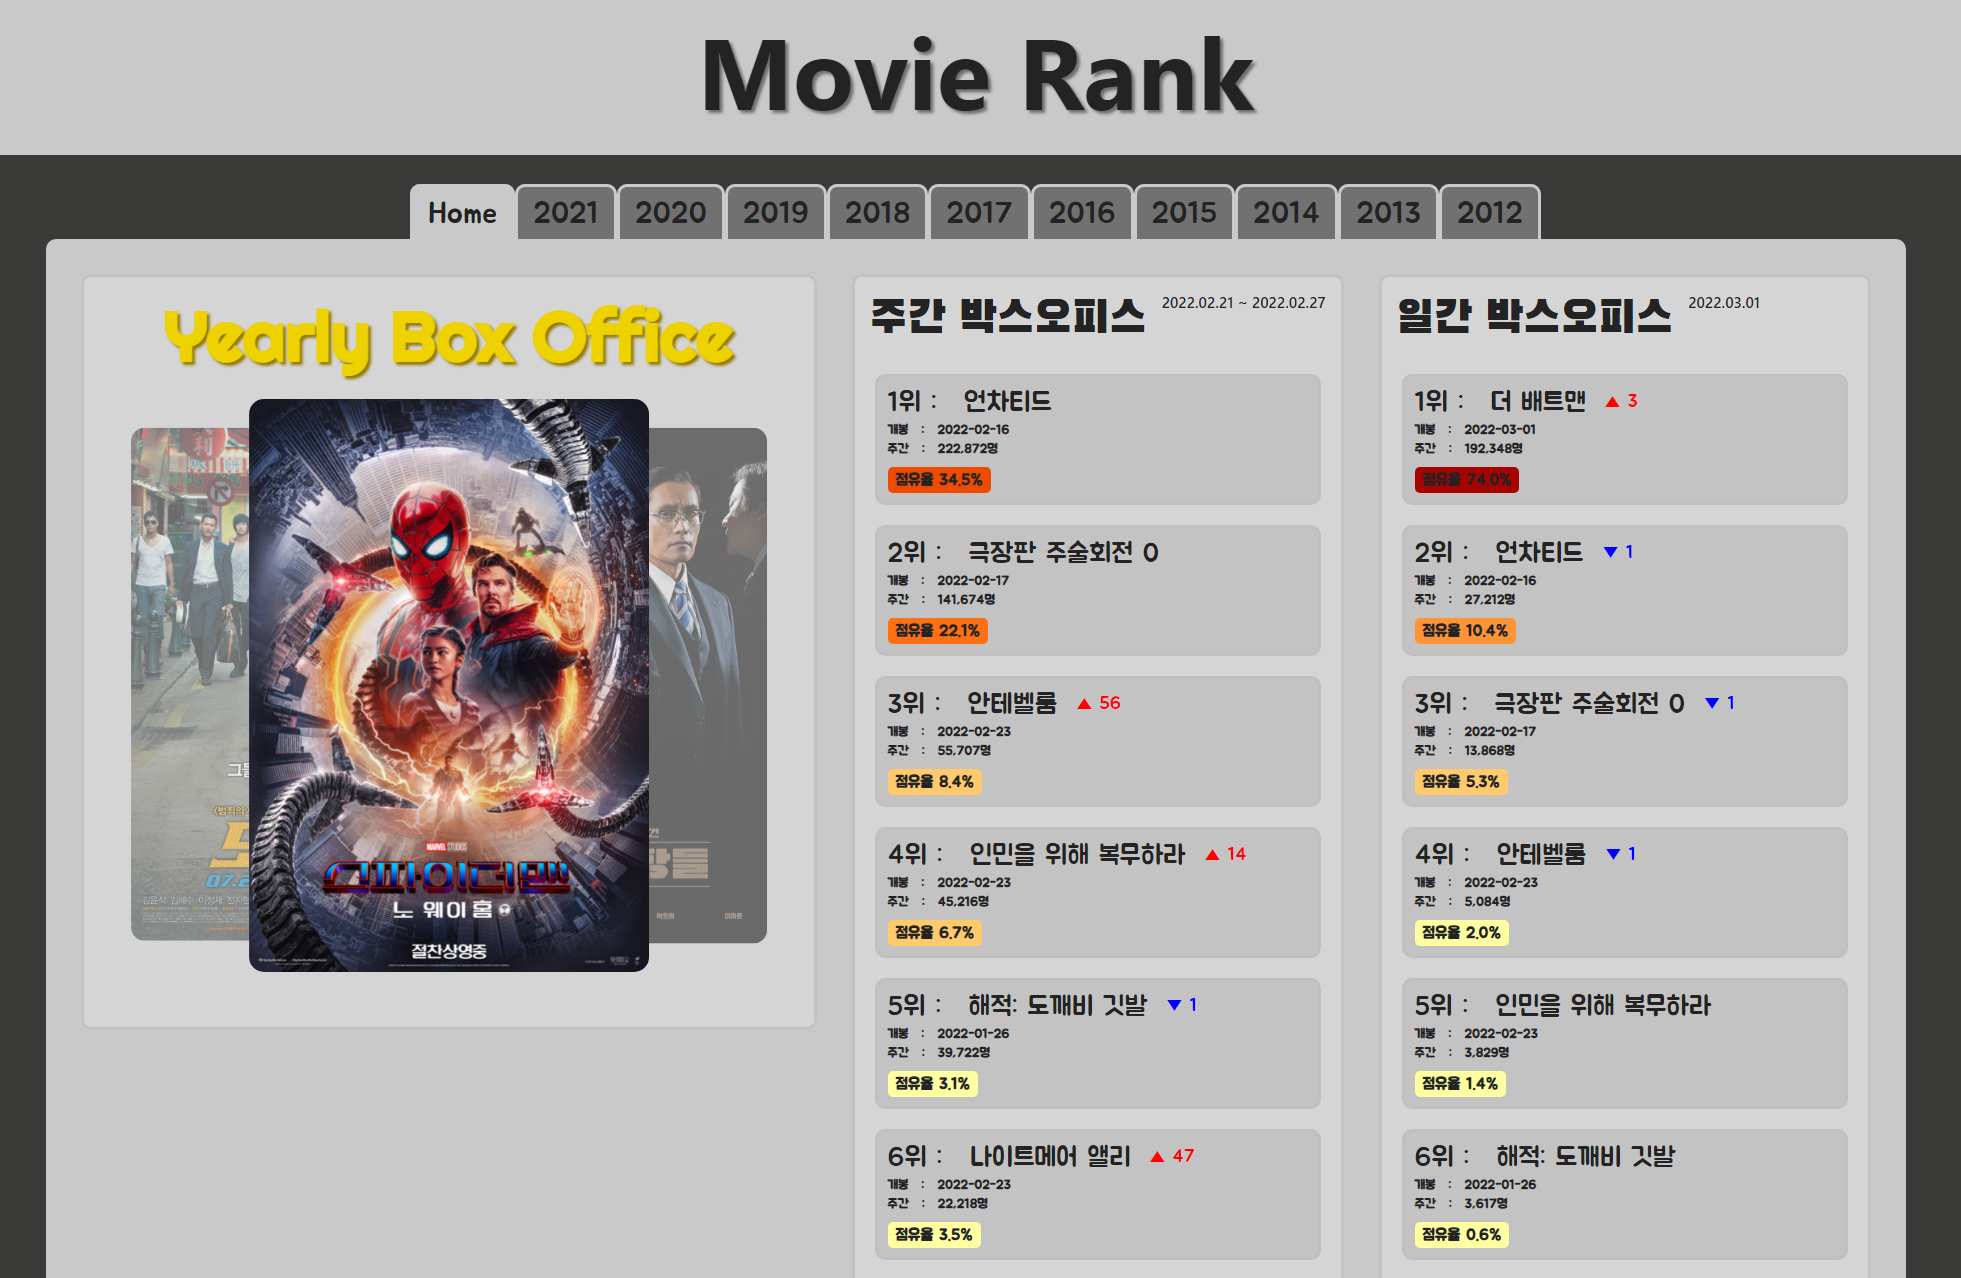
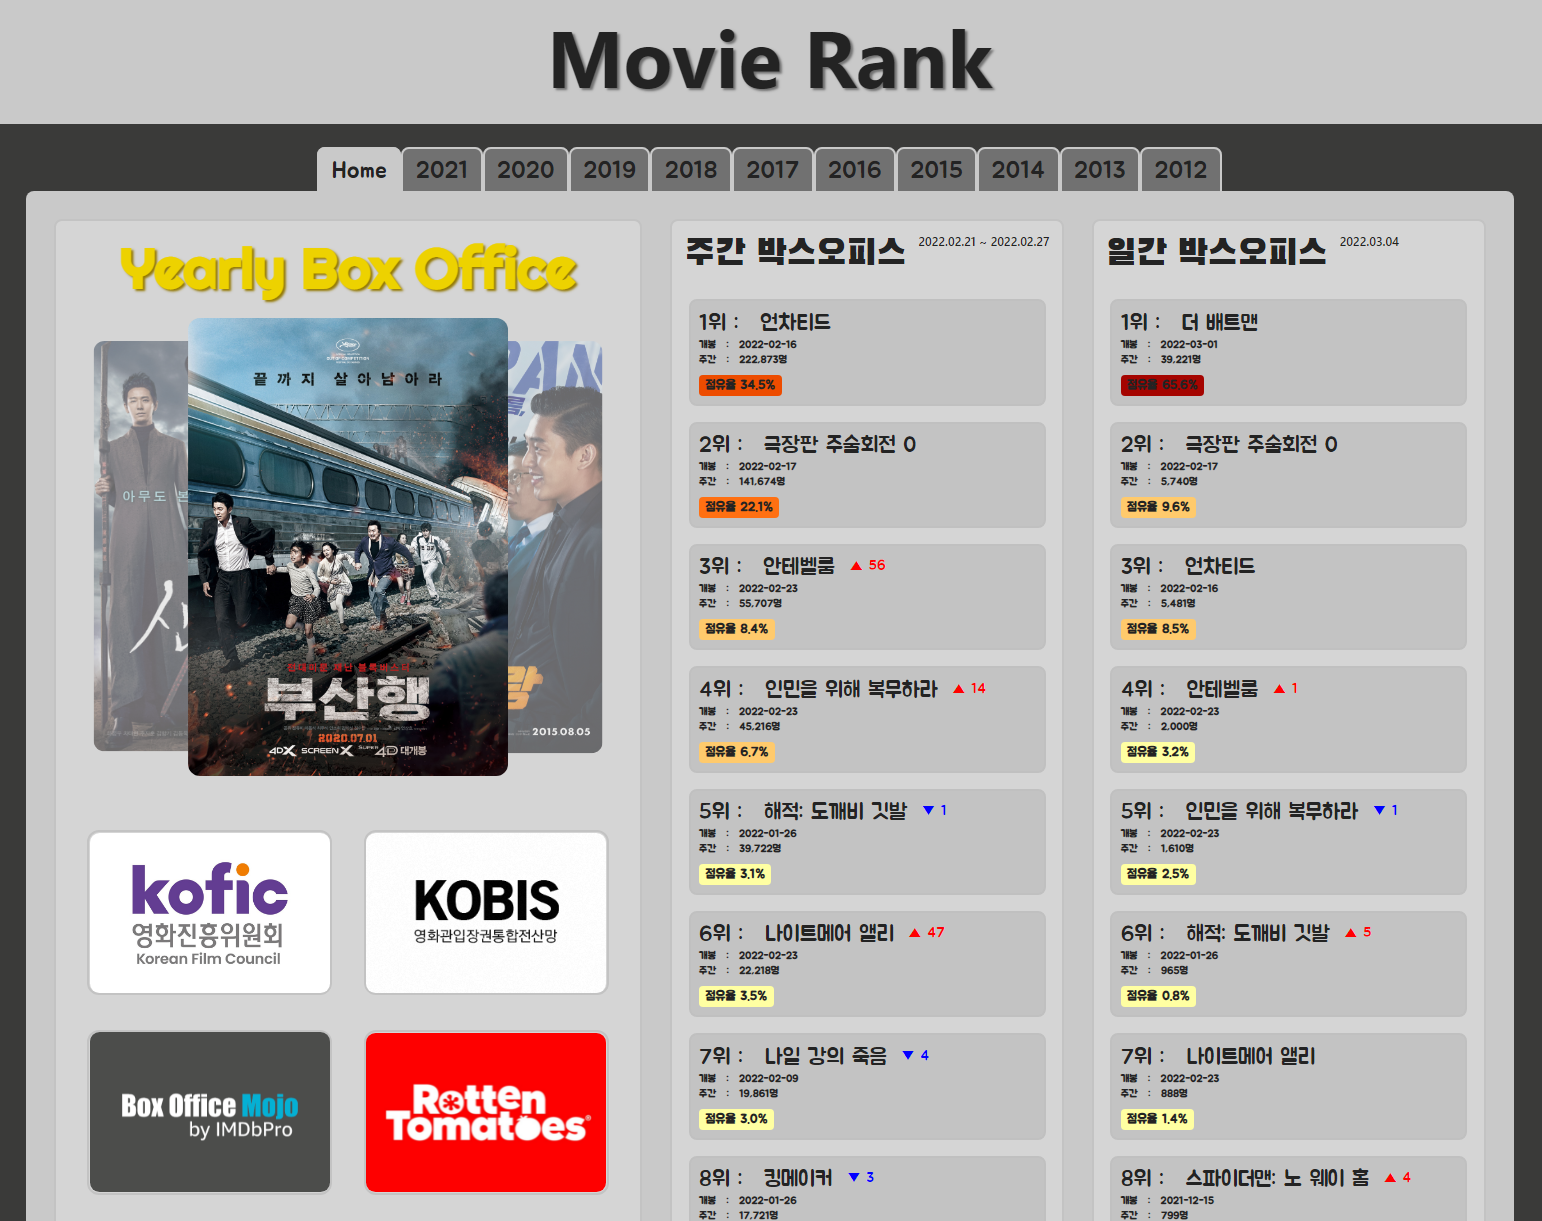
22.03.05.commit.

diff --git a/movierank-react/src/Components/Home.css b/movierank-react/src/Components/Home.css
@@ -19,7 +19,6 @@
 }
 .home_sourcediv {
   border-radius: 10px;
-  display: block;
   text-align: center;
   margin-top: 220px;
 }
@@ -28,6 +27,9 @@
   margin: 20px;
   border-radius: 15px;
   border: 3px solid #c3c3c3;
+}
+.home_sourceimg:hover {
+  border: 3px solid #8c8c8c;
 }
 .homeslide_title {
   font-size: 70px;
